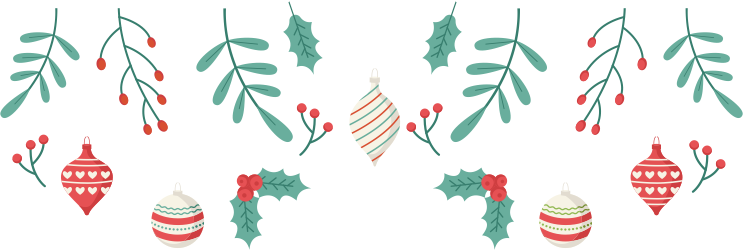
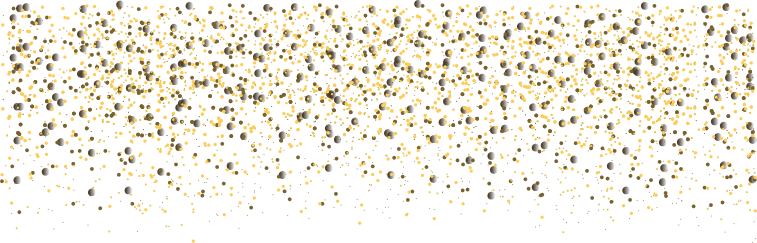
overhaul

diff --git a/index.html b/index.html
@@ -15,12 +15,12 @@
 </head>
 <body>
 
-    <!--  snowflake effect
-      <div id="snowflakes-container" style="width: 1000px; height: 500px; position: absolute;"></div>
+    
+      <div id="snowflakes-container" style="width: 100%; height: 95%; position: absolute;"></div>
     <script src="https://unpkg.com/magic-snowflakes/dist/snowflakes.min.js"></script>
     <script>
         var sf = new Snowflakes({
-            color: '#5ECDEF', // Default: "#5ECDEF"
+            color: 'white', // Default: "#5ECDEF"
             container: document.querySelector('#snowflakes-container'), // Default: document.body
             count: 100, // 100 snowflakes. Default: 50
             minOpacity: 0.1, // From 0 to 1. Default: 0.6
@@ -28,13 +28,13 @@
             minSize: 8, // Default: 8
             maxSize: 18, // Default: 18
             rotation: true, // Default: true
-            speed: 1, // The property affects the speed of falling. Default: 1
+            speed: 0.5, // The property affects the speed of falling. Default: 1
             wind: false, // Without wind. Default: true
-            width: 1600, // Default: width of container
-            height: 900, // Default: height of container
-            zIndex: 100 // Default: 9999
+            width: 2000, // Default: width of container
+            height: 1000, // Default: height of container
+            zIndex: 999 // Default: 9999
         });
-        </script> -->
+        </script> 
     
   <script>
     var Engine = Matter.Engine,
@@ -48,7 +48,7 @@
         options: {
           width: window.innerWidth,
           height: window.innerHeight,
-          background: '#fff',
+          background: '#363636',
           showAngleIndicator: false,
           wireframes: false}
   });
@@ -97,7 +97,7 @@
     restitution: 0.1,
     render: {
       sprite: {
-        texture: 'img/pink-box.png'
+        texture: 'img/gift1.png'
       }
     }
   })
@@ -106,7 +106,7 @@
     restitution: 0.1,
     render: {
       sprite: {
-        texture: 'img/orange-box.png'
+        texture: 'img/gift2.png'
       }
     }
   })
@@ -115,7 +115,7 @@
     restitution: 0.1,
     render: {
       sprite: {
-        texture: 'img/blue-box.png'
+        texture: 'img/gift3.png'
       }
     }
   })
@@ -124,7 +124,7 @@
     restitution: 0.1,
     render: {
       sprite: {
-        texture: 'img/lgreen-box.png'
+        texture: 'img/gift4.png'
       }
     }
   })
@@ -133,7 +133,7 @@
     restitution: 0.1,
     render: {
       sprite: {
-        texture: 'img/dorange-box.png'
+        texture: 'img/gift5.png'
       }
     }
   })
@@ -142,7 +142,7 @@
     restitution: 0.1,
     render: {
       sprite: {
-        texture: 'img/dgreen-box.png'
+        texture: 'img/gift6.png'
       }
     }
   })
@@ -151,13 +151,13 @@
     restitution: 0.1,
     render: {
       sprite: {
-        texture: 'img/dblue-box.png'
+        texture: 'img/gift7.png'
       }
     }
   })
   var groundColor = {
-    fillStyle: 'white',
-    strokeStyle: 'white',
+    fillStyle: 'black',
+    strokeStyle: 'black',
     lineWidth: 0
   }
 
@@ -182,7 +182,7 @@
   <div class="banner"></div>
   <div class="sparkle"></div>
   <canvas id="canvas">Canvas is not supported in your browser.</canvas>
-  <span><h2>Please Donate Us!</h2></span>
+  <span><h3>HELP US BUY NEW LOCKERS!</h3></span>
   <div class="skill">
     <div class="outer">
       <div class="inner" data-progress="100%" data-value="0">
@@ -194,10 +194,10 @@
   </div>
 
   <div class="perc">
-    <h5 id="here">€0</h5><img src="img/raised-c.png" 
+    <h5 id="here">€0</h5><img src="img/logo.png" 
     class="raised" width="300px" height="auto"alt="logo"></div>
   <img src="img/hat.png" class="hat" alt="hat">
-  <img src="img/depits-logo.jpg" class="logo" width="180px" height="180px"
+  <img src="img/depits-logo-white.png" class="logo" width="180px" height="180px"
   alt="logo">
   <img src="img/qr.png" class="qrCode" width="160px" height="160px" alt="qr">
   

diff --git a/css/index.css b/css/index.css
@@ -4,7 +4,7 @@ body {
  position: absolute;
   width: 100%;
   height: 100%;
-  
+  background-color:#363636 ;
   overflow-x: hidden;
   font-family: arial;
   
@@ -25,12 +25,12 @@ canvas {
 
 .banner{
   width: 100%;
-  height: 150px;
-  top: 0;
-  background: url(../img/resized-150.png);
+  height: 300px;
+  top: -100px;
+  background: url(../img/banner.png);
   position: absolute;
-  
   background-repeat: repeat-x;
+  
 }
 
 .sparkle{
@@ -65,7 +65,7 @@ canvas {
   font-size: 500px;
   
   margin-top: -95px;
-  background:  url(../img/color4.jpeg);
+  background:  url(../img/bgMiddle.png);
   animation: animateMid 15s linear infinite;
   -webkit-background-clip: text;
   background-clip: text;
@@ -75,17 +75,18 @@ canvas {
 }
 @keyframes animateMid {
   0% {
-    background-position: left 800px top 0px;
+    background-position: left 300px top 0px;
   }
 }
 
 span{
+  width: 100%;
   font-size: 50px;
   margin-top: 7%;
-  margin-left: 30%;
+  text-align: center;
   position: absolute;
-  font-family: helvetica;
-  color: #d55b59
+  font-family: verdana;
+  color: goldenrod;
   
 }
 
@@ -117,7 +118,7 @@ font-family:arial;
   font-size: 110px;
   text-align: center;
   margin-left: -10%;
-  color: #282727;
+  color: white;
 
 }
 
